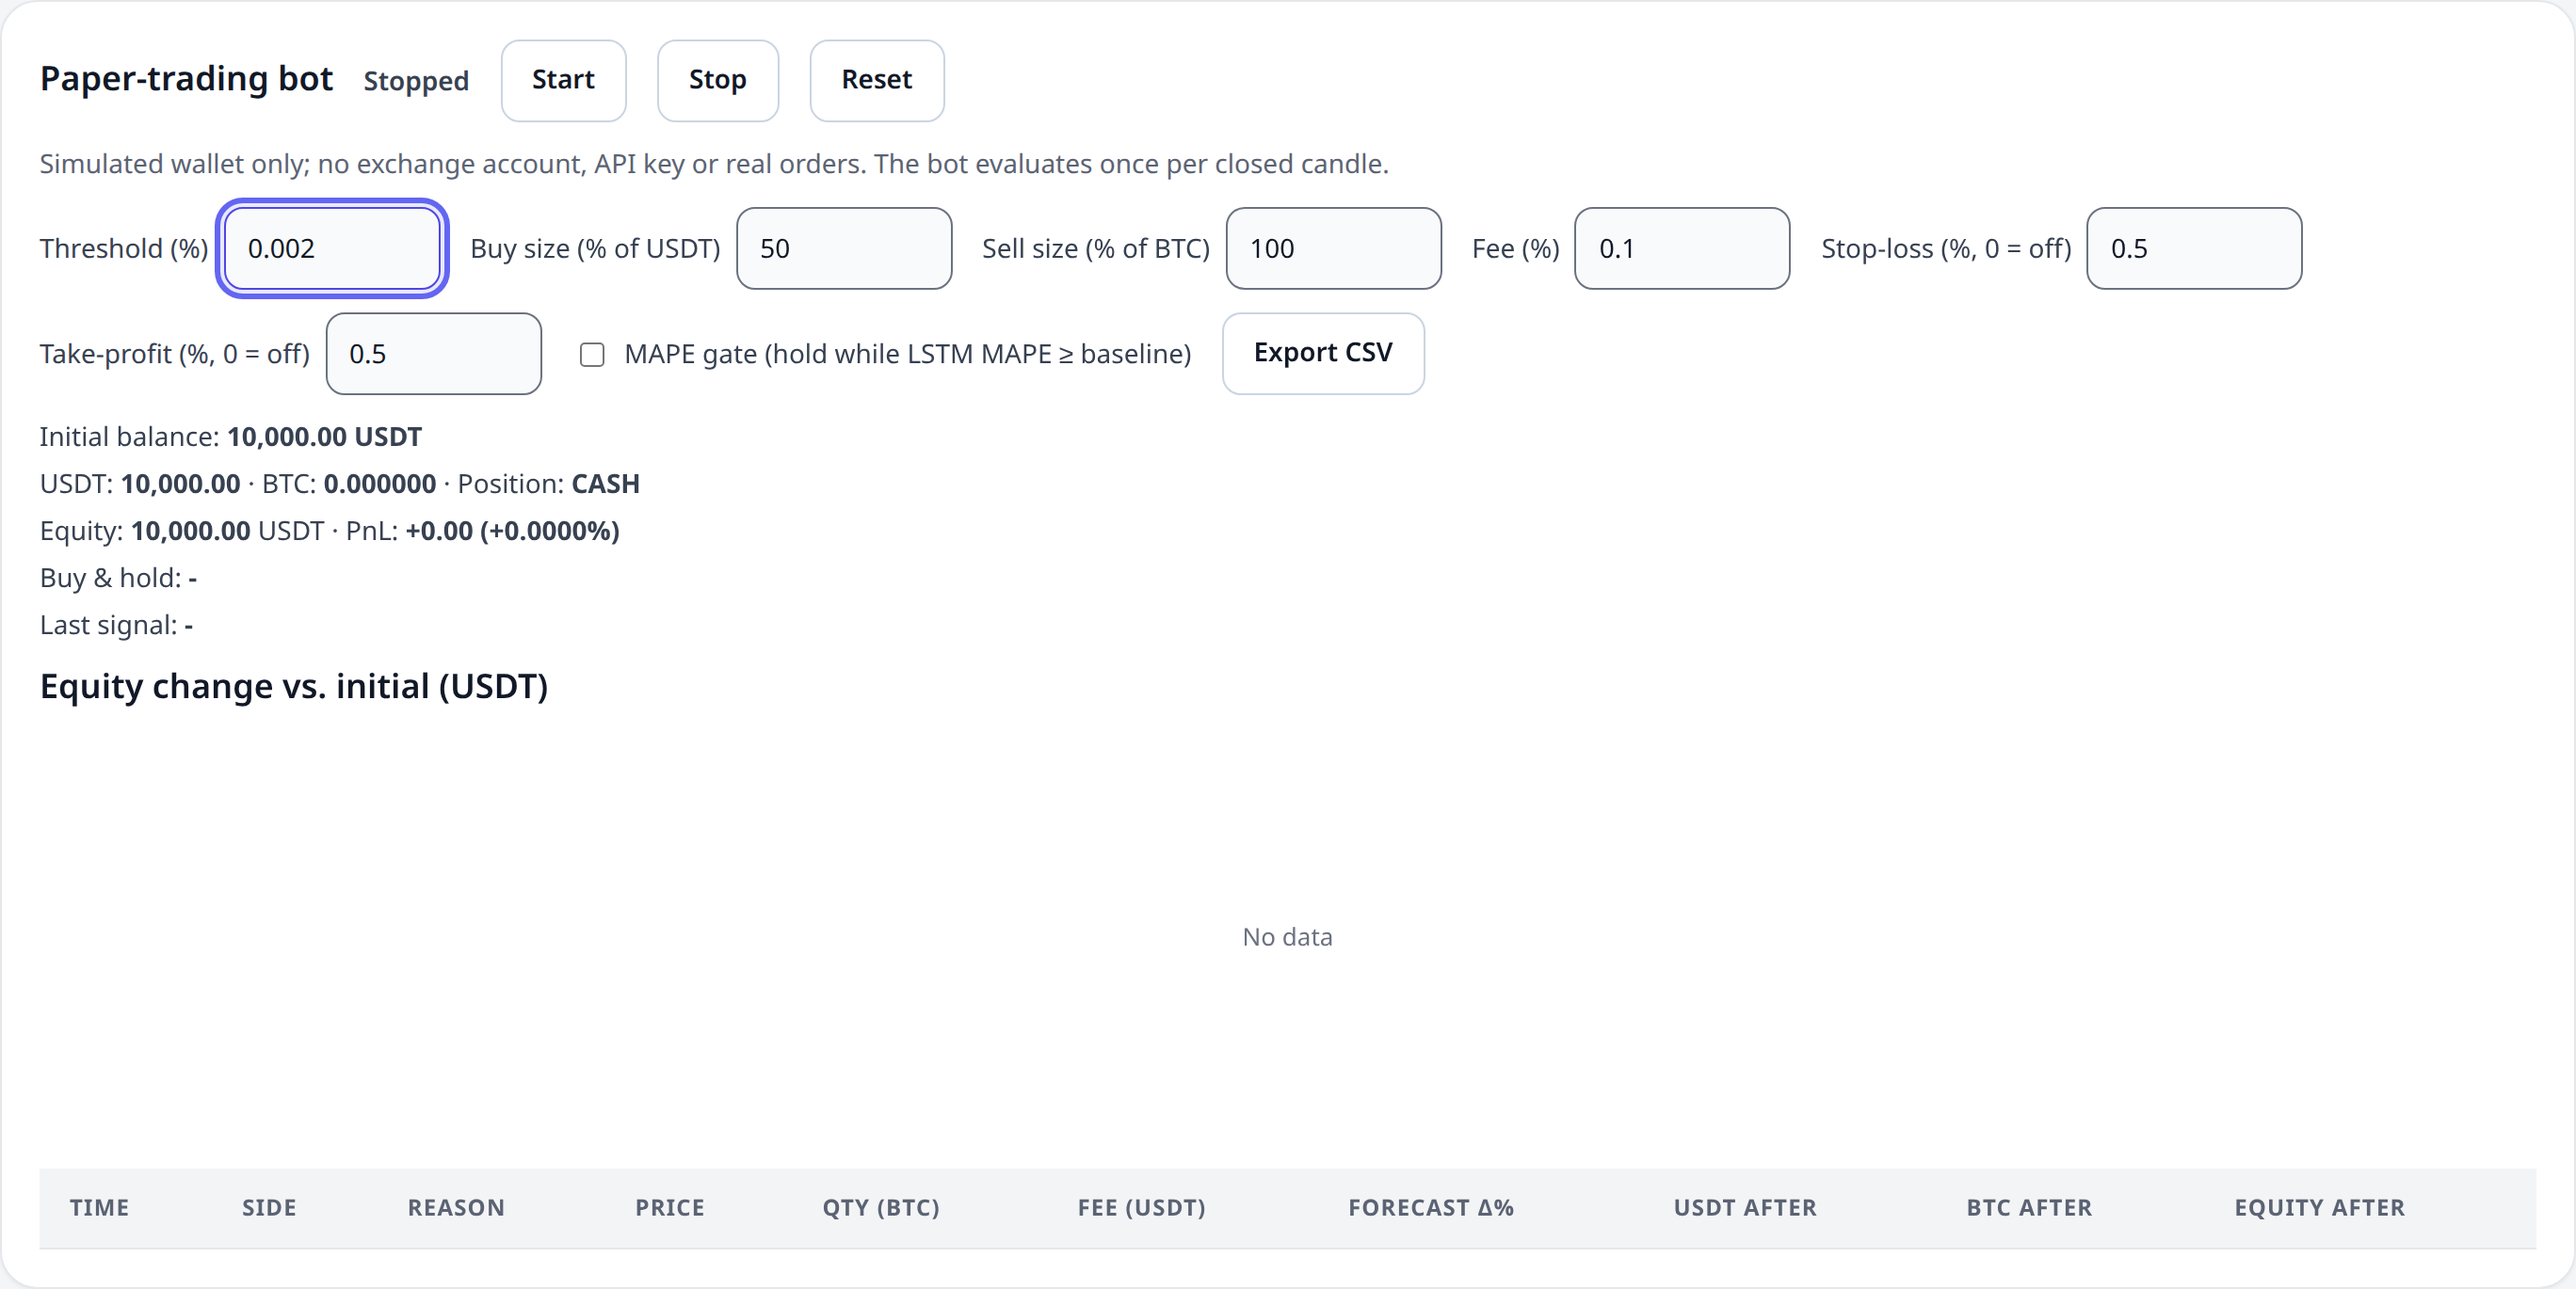
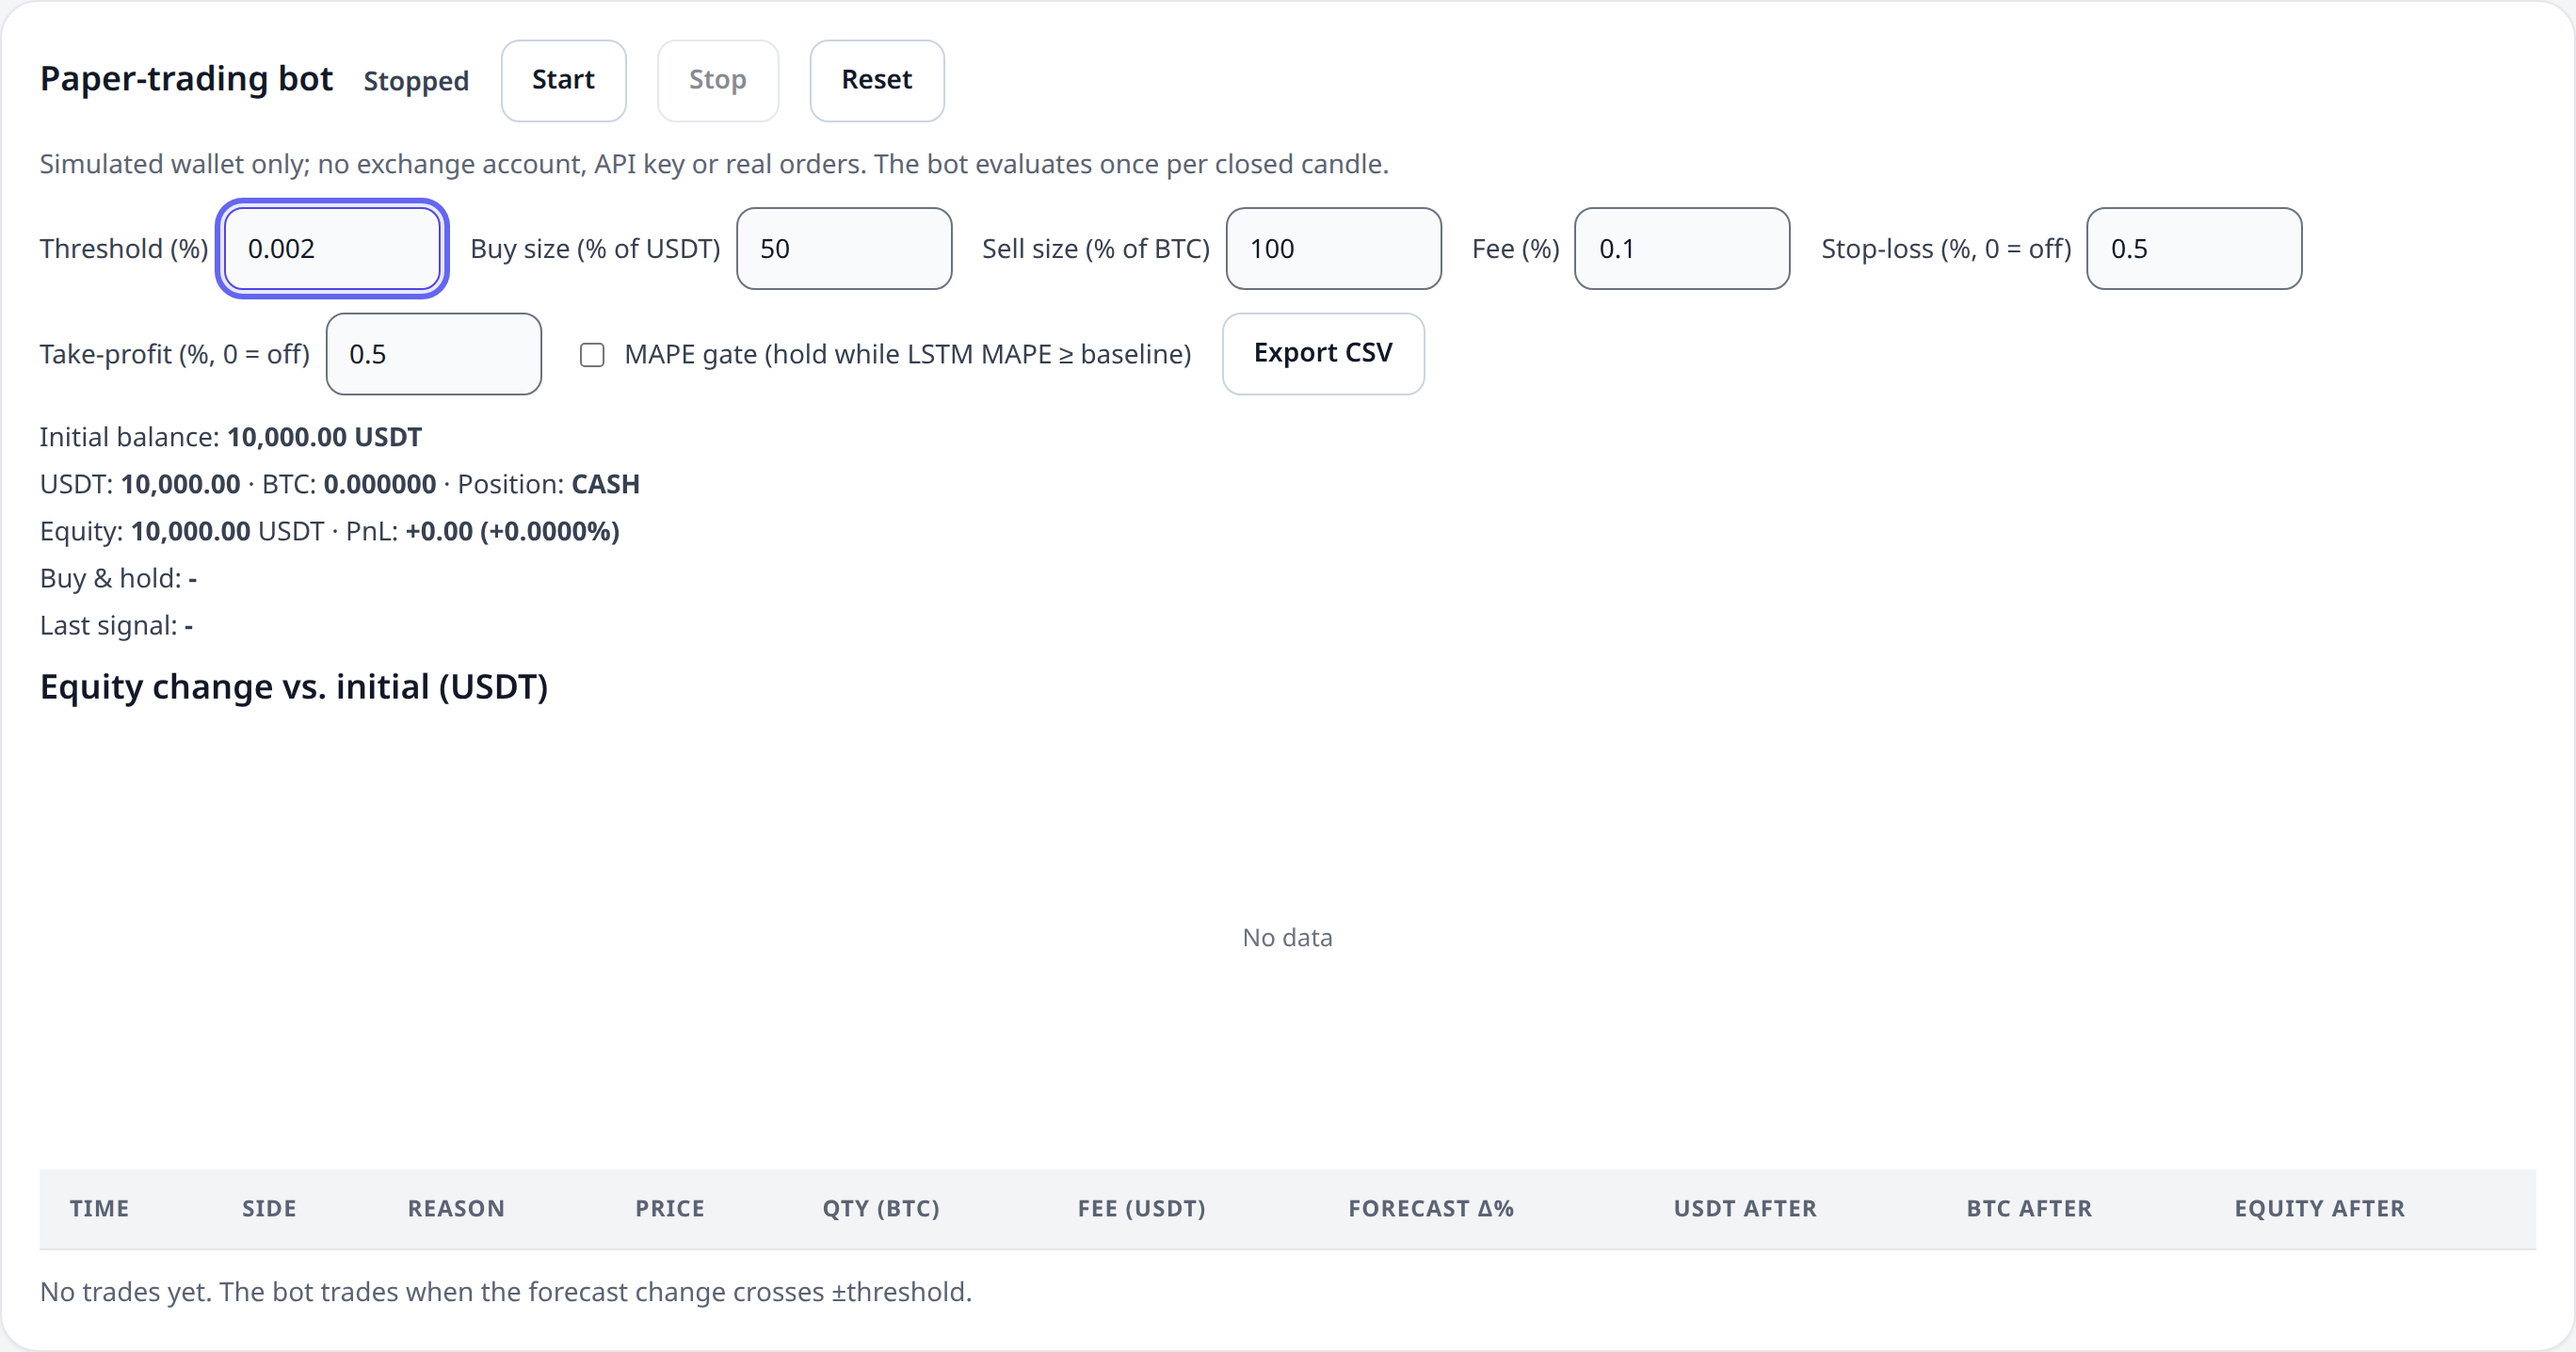
lstm-trading-bot: retake screenshots after graph fix

diff --git a/lstm-trading-bot/README.md b/lstm-trading-bot/README.md
@@ -77,27 +77,26 @@ The screenshots were produced by an automated headless Chromium run (fresh brows
 
 Initial state: ![Initial state](screenshots/0_Initial.png)
 
-**Setup.** Attempt A used the shipped defaults on the **1m** timeframe (threshold 0.01%, buy 50%, sell 100%, fee 0.1%, SL 0.5%, TP 0.5%, MAPE gate off). It ran for the full 15-minute cap and produced **no trade at all**: over about 15 closed candles the forecast never moved more than 0.01% from the last close. Attempt B, which produced the screenshots, used the **1s** timeframe, 300 candles, window 20, and a lowered **threshold of 0.002%**; every other setting was the default. The first BUY occurred about 70 seconds after pressing Start and the SELL one second later.
+**Setup.** Attempt A used the shipped defaults on the **1m** timeframe (threshold 0.01%, buy 50%, sell 100%, fee 0.1%, SL 0.5%, TP 0.5%, MAPE gate off). It ran for the full 15-minute cap and produced **no trade at all**: over about 15 closed candles the forecast never moved more than 0.01% from the last close. Attempt B, which produced the screenshots, used the **1s** timeframe, 300 candles, window 20, and a lowered **threshold of 0.002%**; every other setting was the default. The bot was started at 01:29:49 (UTC); the first BUY filled on the 01:30:28 candle, about 40 seconds later, and the SELL two seconds after that. The unrolled graph in screenshot 3 was captured about 65 seconds after page load, once the layout had settled.
 
 **Trades (attempt B, newest first; time = candle close, UTC):**
 
 | Time | Side | Reason | Price | Qty (BTC) | Fee (USDT) | Forecast Δ% | USDT after | BTC after | Equity after |
 |---|---|---|---|---|---|---|---|---|---|
-| 00:28:50 | SELL | SIGNAL | 61,264.55 | 0.081532 | 4.99 | -0.0029 | 9,990.00 | 0.000000 | 9,990.00 |
-| 00:28:49 | BUY | SIGNAL | 61,264.55 | 0.081532 | 5.00 | +0.0021 | 5,000.00 | 0.081532 | 9,995.00 |
+| 01:30:30 | SELL | SIGNAL | 61,527.47 | 0.081176 | 4.99 | -0.0055 | 9,989.58 | 0.000000 | 9,989.58 |
+| 01:30:28 | BUY | SIGNAL | 61,532.69 | 0.081176 | 5.00 | +0.0025 | 5,000.00 | 0.081176 | 9,995.00 |
 
-**Final readouts (as in the screenshots).** Status Running, USDT 9,990.00, BTC 0, position CASH, equity **9,990.00**, PnL **-10.00 USDT (-0.1000%)**. The buy-and-hold benchmark stood at 9,974.36 (**-25.64 USDT, -0.2564%**), so the bot was ahead of buy-and-hold by about 15.64 USDT. Over 75 predicted candles the LSTM MAPE was **0.011%** against **0.008%** for the repeat-last-close baseline.
+**Final readouts (as in the screenshots).** Status Running, USDT 9,989.58, BTC 0.000000, position CASH, equity **9,989.58**, PnL **-10.42 USDT (-0.1042%)**, last signal HOLD (+0.0004%). Fees paid: 5.00 + 4.99 = **9.99 USDT**. The buy-and-hold benchmark stood at 9,985.59 USDT (**-14.41 USDT, -0.1441%**), so the bot was ahead of buy-and-hold by about 4.00 USDT. Over 65 predicted candles the LSTM MAPE was **0.008%** against **0.005%** for the repeat-last-close baseline.
 
 **Analysis.**
 - The bot is mechanically correct: the BUY spent 50% of the free USDT (5,000.00) and paid a 0.1% fee on it (5.00), and the SELL emptied the BTC holding exactly to 0 and paid a 0.1% fee on the proceeds (4.99). Equity after the BUY is 9,995.00 (the entry fee), and after the SELL 9,990.00.
-- Both orders were filled at the same price (61,264.55), so the round trip earned nothing and the whole loss of 10.00 USDT is the two fees (9.99 plus rounding). The trades were triggered by forecast deltas of +0.0021% and -0.0029%, far below the 0.2% cost of a round trip at a 0.1% fee, so a threshold this low is only useful to demonstrate the mechanics.
-- The bot beat buy-and-hold only because it sat in cash while BTC drifted down during the run (the chart shows the price falling from about 61.4k at the start of the window); this is the direction of the market, not evidence of skill. Buy-and-hold would also have lost money here, and a single two-trade run is not statistical evidence either way.
-- **Honest assessment of the model.** The LSTM is a single cell with 14 trainable parameters, trained online for 30 epochs on a few hundred 1-second or 1-minute returns. Its MAPE (0.011%) is *worse* than the trivial "next price = last close" baseline (0.008%), and the same pattern appeared in every other accuracy check taken during development (for example 0.007% vs 0.004%, 0.007% vs 0.006%, 0.004% vs 0.003%). At these horizons price changes are close to a random walk, so a forecast that does not beat the naive baseline carries no exploitable information; the 20-step forecast curve at the right of the price chart (a steep fall to about 61,138) is an extrapolation of recent noise, and the BUY/SELL signals are essentially noise crossing a very low threshold. With the shipped 0.01% threshold the bot simply stayed in HOLD on the 1m run (attempt A), which is the more sensible behavior. Enabling the **MAPE gate** would have kept the bot out of the market in this run, because the LSTM did not beat the baseline. This is an educational demo, not a trading signal.
-- Display note: the unrolled-graph canvas in screenshot 3 is a force-directed layout, so a few early steps can sit partly outside the frame; it can be panned and zoomed in the app.
+- The SELL filled 5.22 USDT per BTC below the BUY (61,532.69 to 61,527.47), costing 0.42 USDT on 0.081176 BTC. Together with the two fees (9.99 USDT) this explains the whole loss of 10.42 USDT. The trades were triggered by forecast deltas of +0.0025% and -0.0055%, far below the 0.2% cost of a round trip at a 0.1% fee, so a threshold this low is only useful to demonstrate the mechanics.
+- The equity chart shows the bot line flat at 0 until the BUY, because an all-cash wallet has constant equity, then dropping by the entry fee and the exit loss. The bot beat buy-and-hold only because it sat in cash while BTC drifted down during the run; this is the direction of the market, not evidence of skill. A single two-trade run is not statistical evidence either way.
+- **Honest assessment of the model.** The LSTM is a single cell with 14 trainable parameters, trained online for 30 epochs on a few hundred 1-second or 1-minute returns. Its MAPE (0.008%) is *worse* than the trivial "next price = last close" baseline (0.005%), and the same pattern appeared in every other accuracy check taken during development (for example 0.011% vs 0.008%, 0.007% vs 0.004%, 0.004% vs 0.003%). At these horizons price changes are close to a random walk, so a forecast that does not beat the naive baseline carries no exploitable information; the 20-step forecast curve at the right of the price chart (a rise to 61,559.62) is an extrapolation of recent noise, and the BUY/SELL signals are essentially noise crossing a very low threshold. With the shipped 0.01% threshold the bot simply stayed in HOLD on the 1m run (attempt A), which is the more sensible behavior. Enabling the **MAPE gate** would have kept the bot out of the market in this run, because the LSTM did not beat the baseline. This is an educational demo, not a trading signal.
 
 ## Changes from the Provided Source Code & Why
 
-The five reference files (`index.html`, `app.js`, `tiny-lstm.js`, `unroll-graph.js`, `LICENSE`) were first committed unmodified, so `git diff` shows exactly what was changed. The LSTM math in `tiny-lstm.js` and the rendering in `unroll-graph.js` were not touched. Reference files keep their 2-space indentation; new files use 4 spaces.
+The five reference files (`index.html`, `app.js`, `tiny-lstm.js`, `unroll-graph.js`, `LICENSE`) were first committed unmodified, so `git diff` shows exactly what was changed. The LSTM math in `tiny-lstm.js` was not touched; `unroll-graph.js` received only the small layout fix listed as change 11. Reference files keep their 2-space indentation; new files use 4 spaces.
 
 1. **`app.js` (fix): live indicator never turned on**
    * **Change**: In `tick()`, after a successful update, added `liveEl.dataset.state = 'on'`.
@@ -140,3 +139,17 @@ The five reference files (`index.html`, `app.js`, `tiny-lstm.js`, `unroll-graph.
 10. **Persistence and CSV export (`storage.js`, `csv.js`, `bot-ui.js`, `app.js`)**
     * **Change**: Bot state is saved to `localStorage` (restored stopped; corrupt, tampered or old data loads as a fresh wallet without an exception), and the trade history exports as `trades.csv` with a spreadsheet-formula-safe cell encoder.
     * **Why**: Runs survive a page reload and the history can be analyzed or attached outside the app, while treating stored and exported data as untrusted.
+
+### Fixes after testing
+
+11. **`unroll-graph.js` (fix): unrolled graph drifted left and was clipped**
+    * **Change**: Nodes are now seeded centred on the origin (x minus half the chain width), the view is re-fitted every frame while the layout is still settling (unless the user panned, zoomed or reset), and the fit leaves a wider horizontal margin for node labels.
+    * **Why**: The chain was seeded at x = 0 to 3000 while the gravity force pulls toward x = 0, and every update re-heated the simulation, so the whole graph slid about 1,460 units left under a view that was fitted only once, clipping the left edge. Centred seeding removes the net pull and the continuous fit keeps the graph in frame.
+
+12. **`bot-ui.js` / `index.html` (fix): Start/Stop button states**
+    * **Change**: In `render()`, Start is disabled while the bot is running and Stop is disabled while it is stopped; `render()` runs at panel creation, so the state is correct on load and after restoring from `localStorage`.
+    * **Why**: Prevents a double Start and makes the current state obvious; a disabled button ignores clicks.
+
+13. **`bot-ui.js` / `index.html` (fix): "No trades yet" message**
+    * **Change**: A message below the trade table is shown while the trade list is empty and hidden after the first trade (set with `hidden`, no HTML injection).
+    * **Why**: With no trades the wallet is all cash, so equity is constant and the equity chart is a flat 0 line; the message explains that this is expected until the forecast change crosses the threshold.
